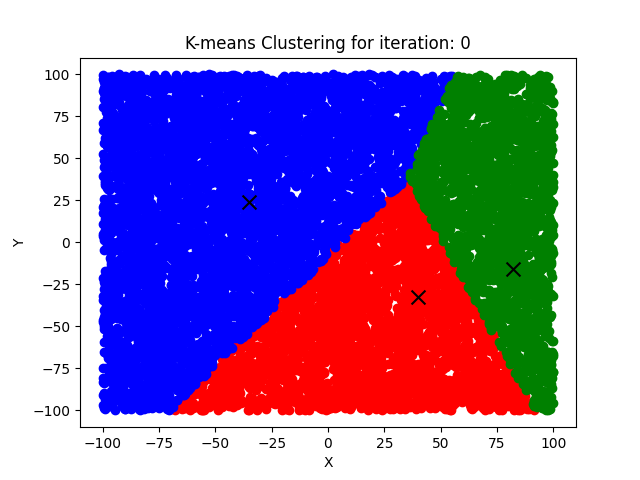
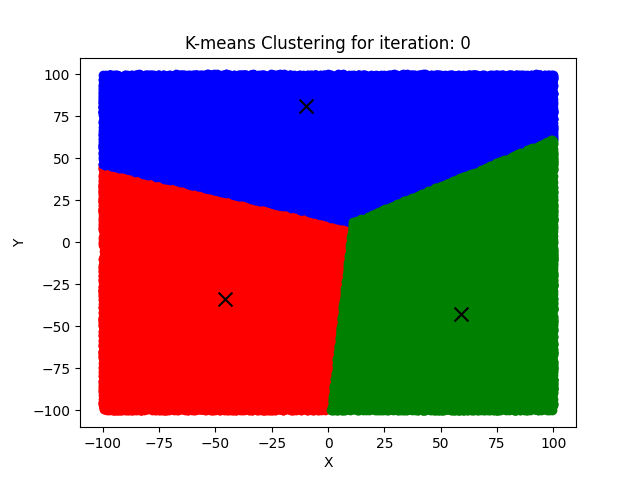
Added: - point writeable

diff --git a/src/main/java/org/example/Main.java b/src/main/java/org/example/Main.java
@@ -93,8 +93,11 @@ public class Main {
 
             //job.setNumReduceTasks(3); // OCIO NON WORKA??????
 
-            job.setOutputKeyClass(Text.class);
+            job.setMapOutputKeyClass(IntWritable.class);
+            job.setMapOutputValueClass(PointWriteable.class);
+            job.setOutputKeyClass(IntWritable.class);
             job.setOutputValueClass(Text.class);
+
 
             FileInputFormat.addInputPath(job, new Path(otherArgs[0]));
             FileOutputFormat.setOutputPath(job, new Path(otherArgs[1]+numero_iterazioni));
@@ -168,7 +171,7 @@ public class Main {
                 break;
 
             // if(dimensione == 2)
-            //PythonExecutor("./python_scripts/plot_generator.py",numero_iterazioni,old_centroidiStringhe);
+            PythonExecutor("./python_scripts/plot_generator.py",numero_iterazioni,old_centroidiStringhe);
 
         }
 

diff --git a/src/main/java/org/example/k_means.java b/src/main/java/org/example/k_means.java
@@ -29,7 +29,7 @@ public class k_means {
 
         private final IntWritable outputKey = new IntWritable();
 
-        static ArrayList<PointWriteable> centroidi = new ArrayList<PointWriteable>();
+        static ArrayList<PointWriteable> centroidi = new ArrayList<>();
         private static int dimensione = 0;
 
 
